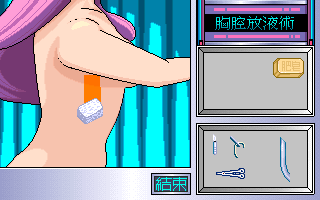
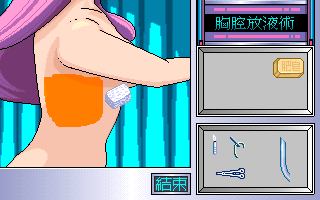
dr

Changed region(s): [[0.125, 0.36, 0.4062, 0.66]]

diff --git a/game/game/intro/ch/c33/dr.htm b/game/game/intro/ch/c33/dr.htm
@@ -41,6 +41,12 @@
   DRMAIN.EXE
     72 EF 47 83 FF 64 72 E5 42 8B C2 3B 46 06 72 D9
     90 90 -- -- -- -- 90 90 -- -- -- -- -- -- 90 90
+3.急救無時限
+  DRMAIN.EXE
+    76 03 E9 C5 07 (電擊去顫)
+    -- -- 90 90 90
+    76 03 E9 BF 03 (心肺復甦)
+    -- -- 90 90 90
 
 修改：存檔SAVE?.REC，數值均高位元組在前
 
@@ -156,16 +162,19 @@ X光片檔案：ZVP\X*.ZVP
 
 1.每進一個房間出來便算一天。每過30天為一個月，開始發薪（非立即性，必
   須回到一樓服務台才會發生）。發薪日同時，知名度-2，人緣-2，考核-1。
-2.每個月的第16天，固定會遇上急救事件時，例如將［本月已過天數］改成0Eh，
-  則隔天便會遇到急救事件（本月已過天數會再加1變成10h）。此時必須立即
-  前往<A HREF="dr/dr1F-3.htm#E1">急診室</A>處理，否則知名度+1，考核-2。但9月份為技術檢定考試，必須立
-  即到<A HREF="dr/dr1F-1.htm#T1">病房</A>參加考試，否則知名度+1，考核-5。
+2.每個月的第16天，固定會遇上急救事件（必須在一樓服務台，會出現通知），
+  例如將［本月已過天數］改成0Eh，則隔天便會遇到急救事件（本月已過天數
+  會再加1變成10h）。此時必須立即前往<A HREF="dr/dr1F-3.htm#E1">急診室</A>處理，否則知名度+1，考核-2。
+  但9月份為技術檢定考試，必須立即到<A HREF="dr/dr1F-1.htm#T1">病房</A>參加考試，否則知名度+1，考核-5。
 3.達到開除或升職條件時，系統會在人物移動後立即處理，不必等到發薪日。
 4.經驗與考核值主要靠醫治病人獲得，人緣值則必須到處串門子才有（聯誼室
-  請客最快）。魅力唯一獲得的方式便是外科手術。
+  請客最快）。魅力唯一獲得的方式便是外科手術（必須是正確的治療，但只
+  需完成即可，不管是否真的有開刀，最快方式便是打開麻醉機後立即關上）。
 5.魅力>=10，人緣>=15，病人便不會拒絕檢查。
 6.醫務部主任以上為主管職，會影響對話內容，以及所獲得的屬性值。
-7.愈高職位，所遇到的病種會愈多。
+7.剛開始時，遇到的病種會有限；職位愈高，所遇到的病種會愈多。
+8.錯誤的治療可能導致病人死亡，而家屬會提出賠償要求，存款減少。若存款
+  不足支應，會被關一個月牢，同時經驗減少，知名度增加，人緣-4，考核-7。
 
 <A HREF="dr/dr1F-1.htm"><b>*** (1F)病房</b></A>
 
@@ -176,6 +185,10 @@ X光片檔案：ZVP\X*.ZVP
 <A HREF="dr/dr1F-4.htm"><b>*** (1F)內科診療室</b></A>
 
 <A HREF="dr/dr1F-5.htm"><b>*** (1F)外科診療室</b></A>
+
+<b><font color=blue>*** (2F)福利社</font></b>
+
+可購買禮物與特殊用品，各物品種類與用途請參閱前述物品編號一覽表。
 
 <b><font color=blue>*** (2F)聯誼室</font></b>
 
@@ -190,7 +203,20 @@ X光片檔案：ZVP\X*.ZVP
 
 <b><font color=blue>*** (2F)醫生休息室／主任室／副院長室／院長室</font></b>
 
-一. 下屬辦公室
+一. 自己辦公室
+
+職位名稱     自己辦公室
+---------------------------
+實習醫生     醫生休息室
+住院醫生     醫生休息室
+總醫師       醫生休息室
+主治醫師     醫生休息室
+醫務部主任   主任室
+副院長       副院長室
+
+可查詢目前屬性與擁有物品，亦有醫學相關書籍可參考。
+
+二. 下屬辦公室
 
 沒事：無
 聊天：(天氣)知名度+1
@@ -199,7 +225,7 @@ X光片檔案：ZVP\X*.ZVP
 送禮：知名度+2，人緣+3*x，x=禮物等級1～4
 訓話：知名度+2，人緣-2
 
-二. 上司辦公室
+三. 上司辦公室
 
 每月只能進入3次，超過則每次知名度+1，考核-1。
 

diff --git a/game/game/intro/ch/c33/dr/dr1F-4.htm b/game/game/intro/ch/c33/dr/dr1F-4.htm
@@ -12,7 +12,7 @@
 直接轉診：知名度+1
 診斷失敗：經驗-1～3，知名度+1
 診斷成功，治療錯誤或轉診：經驗+2～5，知名度+1
-治療成功：(有操作)經驗+12～16，知名度+2，考核+1
+治療成功：(有操作)經驗+12～18，知名度+2，考核+1
           (無操作)經驗+8～10，知名度+2，考核+1
           (萬靈丹)經驗+8～10，知名度+2，考核+3
 過多檢查：(額外)經驗-x，人緣-x，x=病人抱怨次數
@@ -251,18 +251,18 @@
 
 1.用肥皂洗手並戴上手套。
 <img src="i05-3.png"><img src="i05-4.png">
-2.用紗布在手術部位塗上消毒藥水(大概在病人手臂的下方)。
+2.用紗布在手術部位塗上消毒藥水。
 <img src="i05-5.png">
-3.拿起手術刀，在胸腔右側與肋骨平行方向橫向切開約3公分寬的開口(略大於導管)。
-(4.用手在切口上點一下，將其撐開)。
-5.用止血鉗夾住導管，插入切口。
-6.放掉止血鉗。
-7.用針線將導管與皮膚縫合。
-8.將導管接引流器。
-先用海綿塗患者胸部肋骨處.接著用手術刀斜割肋骨處約3公分.(注意!一定要斜割)
-用手剝開手術刀痕.
-用夾子夾住導管插入傷口處就會出現幾個瓶子.
-之後在用針線縫合傷口按結束即可.大致上是這樣
+3.用手術刀在胸腔右側橫切出一個夠長的開口（略斜無所謂，寬度最少18點）。
+  儘量只下刀一次，並慢慢移動滑鼠以避免斷線（下刀次數加斷線次數超過3次就算失敗）。
+<img src="i05-6.png">
+4.用手將切口撐開。
+<img src="i05-7.png">
+5.用止血鉗夾住導管，插入切口，導管接上引流器。
+<img src="i05-8.png"><img src="i05-9.png"><img src="i05-10.png">
+6.用針線將導管與皮膚縫合。
+<img src="i05-11.png">
+7.放液後按結束即可。
 </font>
 </pre>
 </body>

diff --git a/game/game/intro/ch/c33/dr/dr1F-3.htm b/game/game/intro/ch/c33/dr/dr1F-3.htm
@@ -50,21 +50,14 @@
 
 二.【電擊去顫術】
 
-註：此處的急救觀念有誤，去纖維震顫是指心臟因為表面電流亂跑，使得心室
-    跳動過快且不夠力，讓心臟不能正常打血出去；這時使用電擊，中斷亂跑
-    的電流，再配合心肺復甦術，讓心臟能夠重新啟動其節律。也就是說，當
-    心臟停止跳動時，電擊是沒有用的！
-<img src="e00-1.jpg">
-VT=無脈搏心室心搏過速，VF=心室纖維顫動，Asystole=無脈搏，PEA=有脈搏但心臟實際未跳動
-
-將兩個電擊器，一個置於左胸乳下心臟的部位，一個置於右胸乳上的地方，再
-將電壓逐漸昇高。
-
-焦耳
-
-1.从90伏开始，两个电击器距离放近点，注意要放在心脏之间
-2.90伏电完后把两个电击器向两边再放远点，用120伏，如此类推
-3.成功率只有百分之50左右
+1.將兩個電擊器，一個先置於右胸乳上的地方，另一個再置於左胸乳下心臟的
+  部位，順序不可錯誤。下右圖紅框為電擊器左上角可放置的位置（實際位置
+  應在右前胸與左脅）。
+2.由110焦耳開始電擊一次，若仍無心跳便依次改成200、400焦耳各電擊一次。
+  若仍無心跳，表示電擊器放錯位置，此時已不可能救活。
+3.當病人恢復心跳時，不可再電擊，否則會再度休克救不活。
+<img src="e02-1.png"><img src="e02-2.png"><img src="AED.png">
+4.救活後按開關結束。
 </font>
 </pre>
 </body>

diff --git a/game/game/intro/ch/c33/dr/dr1F-2.htm b/game/game/intro/ch/c33/dr/dr1F-2.htm
@@ -98,7 +98,7 @@
 <img src="oc02-16.png">
   (3)將赫尼亞囊加以縫合（以開口為中心，用鍵盤方向鍵移動，縫3針即可）。
 <img src="oc02-17.png">
-  (4)取下牽引器使傷口閉合，並縫合傷口（用鍵盤方向鍵，按1～2次縫1針）。
+  (4)取下牽引器使傷口閉合，並縫合傷口（用鍵盤方向鍵與空白鍵，按1～2次縫1針）。
 <img src="oc02-18.png"><img src="oc02-19.png">
 5.關閉麻醉機。
 
@@ -136,7 +136,7 @@
 <img src="oc03-22.png"><img src="oc03-23.png">
   (6)使用吻合器使胃與空腸相互接合在一起。
 <img src="oc03-24.png"><img src="oc03-25.png">
-  (7)取下自動張開器使傷口閉合，並縫合傷口（用鍵盤上下鍵，按1～2次縫1針）。
+  (7)取下自動張開器使傷口閉合，並縫合傷口（用鍵盤上下鍵與空白鍵，按1～2次縫1針）。
 <img src="oc03-26.png"><img src="oc03-27.png">
 5.關閉麻醉機。
 </font>
